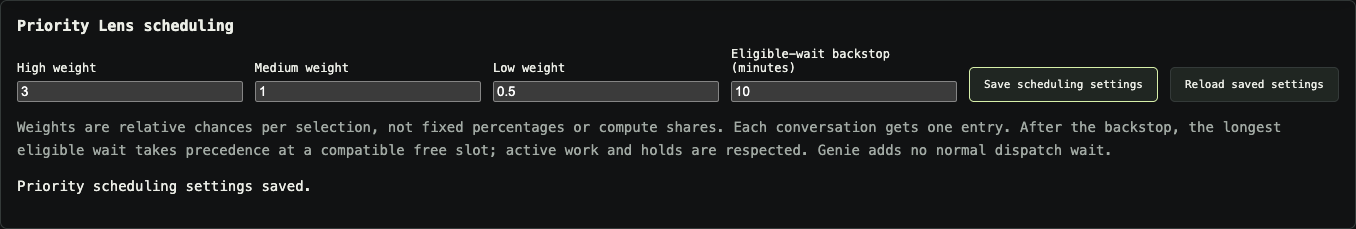
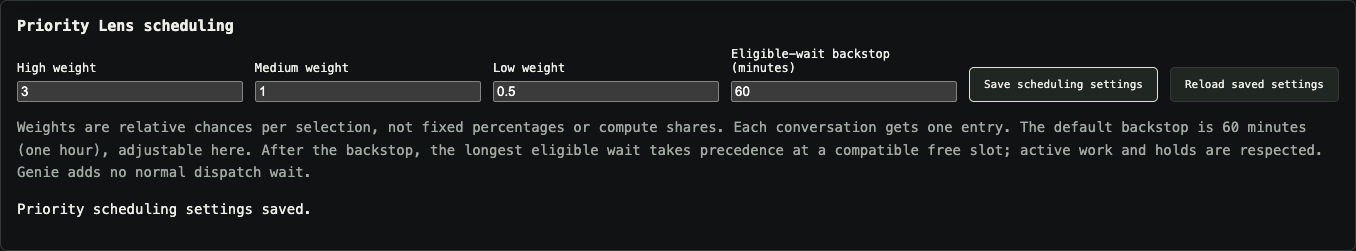
Default Priority Lens to a configurable one-hour aging backstop

diff --git a/ds4-gateway/ui/index.html b/ds4-gateway/ui/index.html
@@ -87,7 +87,7 @@
 <div class="table-wrap"><table><thead><tr><th>Time</th><th>DS4 server</th><th>Outcome</th><th>Elapsed</th><th>Queued</th><th>Prefix reused</th><th>Output tokens</th><th>Request</th></tr></thead><tbody id="requests"><tr><td colspan="8" class="muted">Waiting for request records</td></tr></tbody></table></div>
 </section>
 <section id="view-settings" class="workspace-view settings-view" role="tabpanel" aria-labelledby="tab-settings" data-workspace-view="settings" hidden>
-<section class="worker-management" aria-labelledby="priority-settings-title"><h2 id="priority-settings-title">Priority Lens scheduling</h2><form id="priority-settings-form" class="priority-settings-form"><label>High weight <input id="priority-weight-high" type="number" min="0.1" max="10" step="0.1" value="3" required></label><label>Medium weight <input id="priority-weight-medium" type="number" min="0.1" max="10" step="0.1" value="1" required></label><label>Low weight <input id="priority-weight-low" type="number" min="0.1" max="10" step="0.1" value="0.5" required></label><label>Eligible-wait backstop (minutes) <input id="priority-aging" type="number" min="0.016667" max="1440" step="any" placeholder="Awaiting agreed default" required></label><button id="priority-settings-save" class="button" type="submit" disabled>Save scheduling settings</button><button id="priority-settings-reload" class="button" type="button">Reload saved settings</button></form><p class="muted">Weights are relative chances per selection, not fixed percentages or compute shares. Each conversation gets one entry. After the backstop, the longest eligible wait takes precedence at a compatible free slot; active work and holds are respected. Genie adds no normal dispatch wait.</p><p id="priority-settings-message" role="status"></p></section>
+<section class="worker-management" aria-labelledby="priority-settings-title"><h2 id="priority-settings-title">Priority Lens scheduling</h2><form id="priority-settings-form" class="priority-settings-form"><label>High weight <input id="priority-weight-high" type="number" min="0.1" max="10" step="0.1" value="3" required></label><label>Medium weight <input id="priority-weight-medium" type="number" min="0.1" max="10" step="0.1" value="1" required></label><label>Low weight <input id="priority-weight-low" type="number" min="0.1" max="10" step="0.1" value="0.5" required></label><label>Eligible-wait backstop (minutes) <input id="priority-aging" type="number" min="0.016667" max="1440" step="any" placeholder="60 (one hour)" required></label><button id="priority-settings-save" class="button" type="submit" disabled>Save scheduling settings</button><button id="priority-settings-reload" class="button" type="button">Reload saved settings</button></form><p class="muted">Weights are relative chances per selection, not fixed percentages or compute shares. Each conversation gets one entry. The default backstop is 60 minutes (one hour), adjustable here. After the backstop, the longest eligible wait takes precedence at a compatible free slot; active work and holds are respected. Genie adds no normal dispatch wait.</p><p id="priority-settings-message" role="status"></p></section>
 <section id="worker-management" class="worker-management" aria-labelledby="worker-management-title" hidden><h2 id="worker-management-title">Manage DS4 servers</h2>
 <p>Add an already-running DS4 server. Registration checks its model and context, then leaves it paused. Server context, cache slots and model settings are not changed.</p>
 <details id="spark-profile"><summary>Recommended DGX Spark configuration</summary><p>Experimental reference profile: Vision-Exp IQ2/Q2 with vision enabled, 262,144-token context, two hot sessions, one active request per Spark, a 349,525 MiB disk-KV budget and the full acceleration cache. Context includes prompt, reasoning and answer; disk retention is byte-based, not a fixed ten-slot guarantee.</p><p><a href="https://github.com/JordiPosthumus/dwarf-star-gate/blob/main/docs/recommended-spark-profile.md" target="_blank" rel="noopener noreferrer">Exact versions, launch command, validation procedure and known limits</a>. Remains our recommendation until explicitly superseded. This is guidance, not a reading of live settings; it does not change servers or apply to Macs.</p></details>

diff --git a/WORKLOG.md b/WORKLOG.md
@@ -1166,3 +1166,19 @@ owner's own endpoints and private configuration. Explain the distinction between
 core setup and optional Pi, hardware or recovery capabilities. Revalidated all
 nine installation tests, including the fresh-checkout integration fixture. These
 checks use a synthetic DS4 server; each owner's real connection still needs testing.
+
+
+### One-hour Priority Lens backstop
+
+Set the agreed default to one hour of eligible waiting. The Settings field shows
+60 minutes and accepts changes; legacy saved values and explicitly unset states
+are preserved. A clock-controlled test verifies lottery selection just before
+one hour and oldest-eligible precedence exactly at one hour. Gateway fixtures
+verify default activation and dispatch behavior. Browser checks verify 60 as the
+default, saving/reloading a different value and returning to 60. The screenshot
+uses only synthetic data.
+
+Focused checks: 23 policy/intent/correction tests, three gateway Priority Lens
+tests and 86 dashboard/demo tests passed; the full synthetic browser flow passed.
+
+Full regression suite: 687 passed, two optional tests skipped. Source checks passed.

diff --git a/docs/pi-integration-plan.md b/docs/pi-integration-plan.md
@@ -26,7 +26,7 @@ follow-up.** Inference continues when this optional integration or Genie is down
 | Agent Watch | Existing opt-in metadata-only reporting | Distinguish tools, queueing, active responses and settled failures |
 | Task review | Proposed; off; separate consent to bounded task/last-turn context | Distinguish routine continuation check-ins from genuine human decisions |
 | Proactive Resume | Proposed; off; explicit client/session and authorized-task scope | Permit an eligible client-owned follow-up after a fresh independent check |
-| Priority Lens | Source implemented; switch on, aging agreement pending; Pi snippets separately opted in | Advise priority among undispatched requests under fairness and cache guards |
+| Priority Lens | Source implemented; switch on, configurable one-hour aging backstop; Pi snippets separately opted in | Advise priority among undispatched requests under fairness and cache guards |
 
 One capability never enables another. Status reporting grants neither transcript
 access nor control. Priority Lens does not grant Proactive Resume. Show the Genie

diff --git a/docs/current-work-plan.md b/docs/current-work-plan.md
@@ -192,8 +192,8 @@ delivery while keeping permissions and ordinary gateway operation independent.
   retry certificates; caller IDs are not added to the failure ledger.
 - **[Priority Lens](priority-lens.md):** source now includes manual controls,
   bounded eligible-conversation scheduling and asynchronous optional Pi intent
-  classification and explicitly confirmed chat corrections. Agreed aging,
-  model-quality evidence and live rollout remain. Inference never waits on Genie.
+  classification and explicitly confirmed chat corrections, with a configurable
+  one-hour eligible-wait backstop. Model-quality evidence and live rollout remain. Inference never waits on Genie.
 - **[Proactive Resume](roadmap.md#planned-opt-in-session-rescue):** enrolled Pi
   observation first, then supported client-owned continuation. A routine “shall
   I continue the authorized work?” may qualify; missing human decisions, new

diff --git a/docs/priority-lens.md b/docs/priority-lens.md
@@ -8,9 +8,10 @@ or that real-model classification quality has been measured.
 
 ## Scheduling and controls
 
-The visible Lens switch defaults on. Queue priority remains inactive until an
-operator agrees and saves an eligible-wait backstop in Settings; there is no
-silently chosen production threshold. The UI identifies that pending state.
+The visible Lens switch defaults on with a **one-hour eligible-wait backstop**.
+Change its duration in Settings → Priority Lens scheduling, in minutes. Existing
+saved durations and opt-outs are preserved; legacy states with an explicitly
+unset threshold remain pending until their operator saves a duration.
 Turning Lens off restores ordinary scheduling and invalidates transient advice.
 Manual priorities and intentionally saved preferences survive that switch.
 

diff --git a/docs/roadmap.md b/docs/roadmap.md
@@ -724,7 +724,7 @@ The [Priority Lens implementation and boundaries](priority-lens.md) document the
 current-jobs UI, persistent overrides, explicit 30-line preference editor,
 bounded conversation-head lottery, eligible-wait aging, optional Pi user-intent
 handoff and asynchronous Genie classifier. The visible switch defaults on;
-queue priority awaits an explicitly agreed aging backstop. Pi content sharing
+queue priority defaults to a configurable one-hour eligible-wait backstop. Pi content sharing
 remains separately opted in. Source/tested behavior does not imply live rollout.
 
 The implementation never waits for Genie in dispatch. Independent core leases

diff --git a/README.md b/README.md
@@ -49,7 +49,8 @@ no request reached this gateway” apart—without sending task or conversation 
 
 **[Priority Lens](docs/priority-lens.md)** now has local source for a current-jobs
 view, persistent manual priorities and asynchronous Genie advice from separately
-opted-in short Pi user excerpts. Queue priority awaits an agreed aging threshold.
+opted-in short Pi user excerpts. Queue priority has a configurable one-hour
+eligible-wait backstop.
 The [optional Pi plan](docs/pi-integration-plan.md) also covers future guarded
 Proactive Resume. Agent Watch does not enable either content review or session control.
 

diff --git a/CHANGELOG.md b/CHANGELOG.md
@@ -1,5 +1,11 @@
 # Changelog
 
+## One-hour configurable priority backstop
+
+- Default new Priority Lens state to one hour of eligible waiting, with the
+  duration editable in Settings. Preserve existing saved durations and opt-outs.
+- Verify the exact one-hour selection boundary and browser save/reload behavior.
+
 ## Explain transport observations and preserve image-recovery cancellation
 
 - Explain readiness refusal/reset independently of SSH management status and
